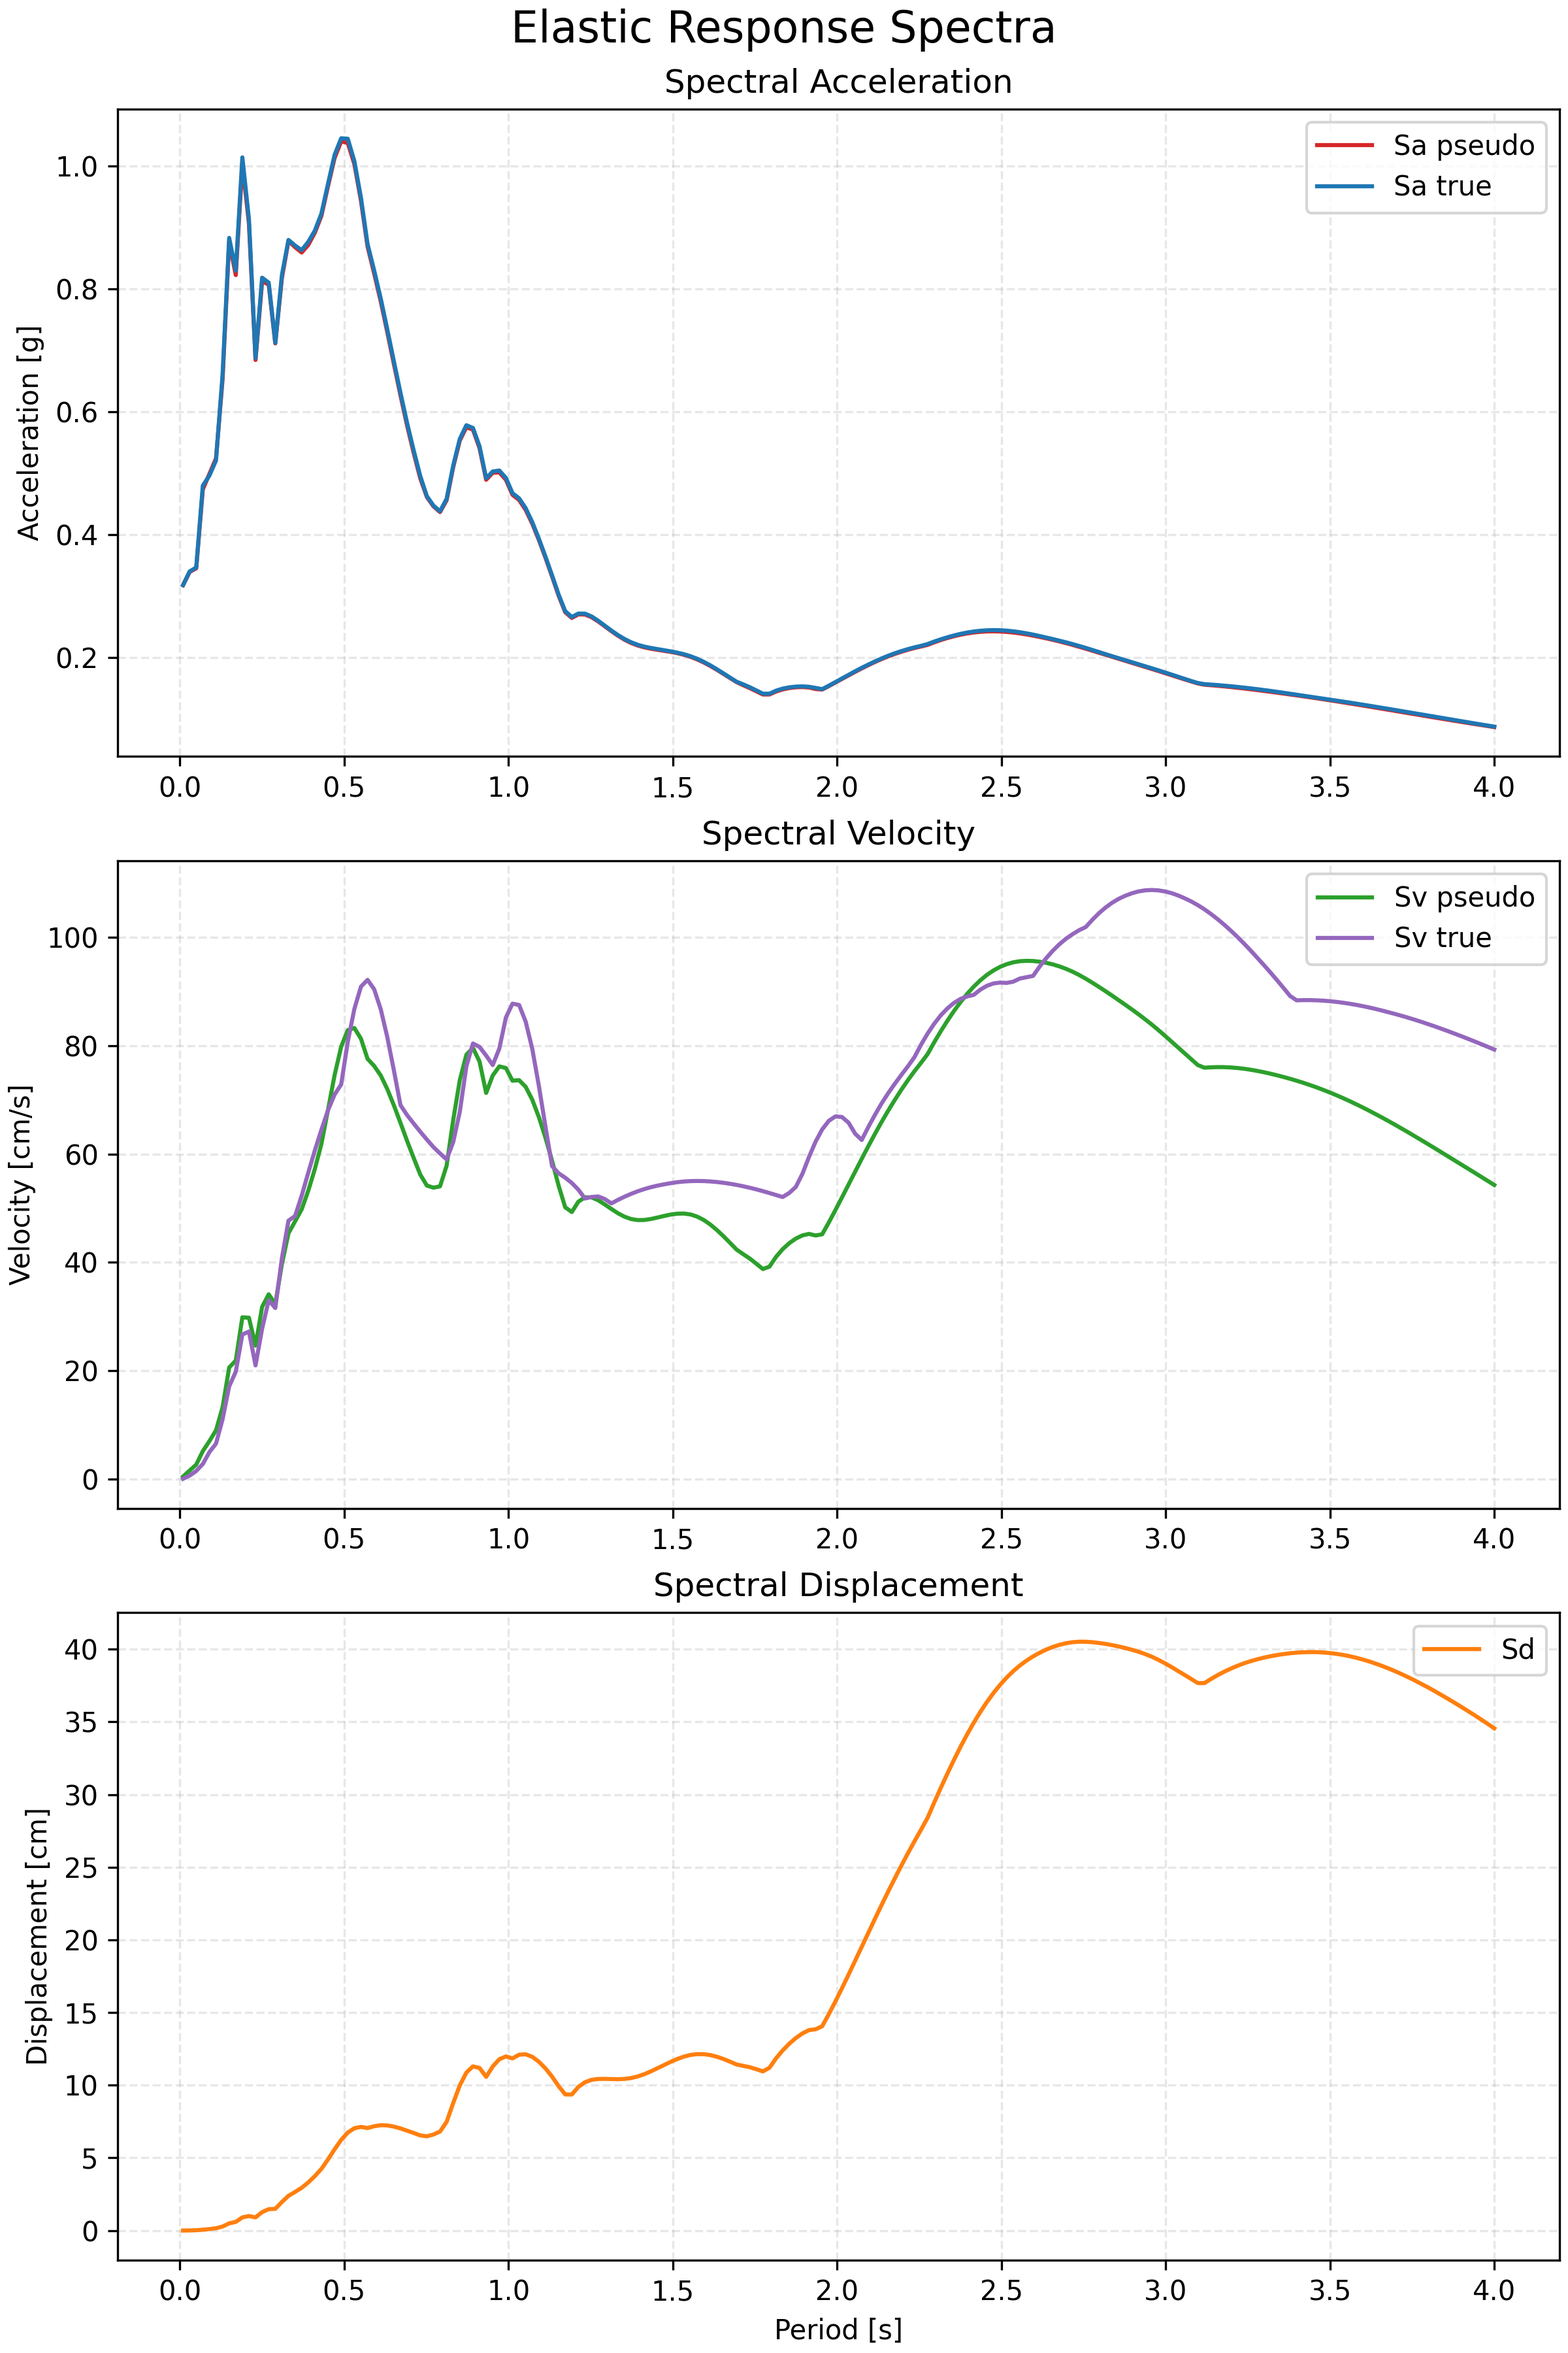
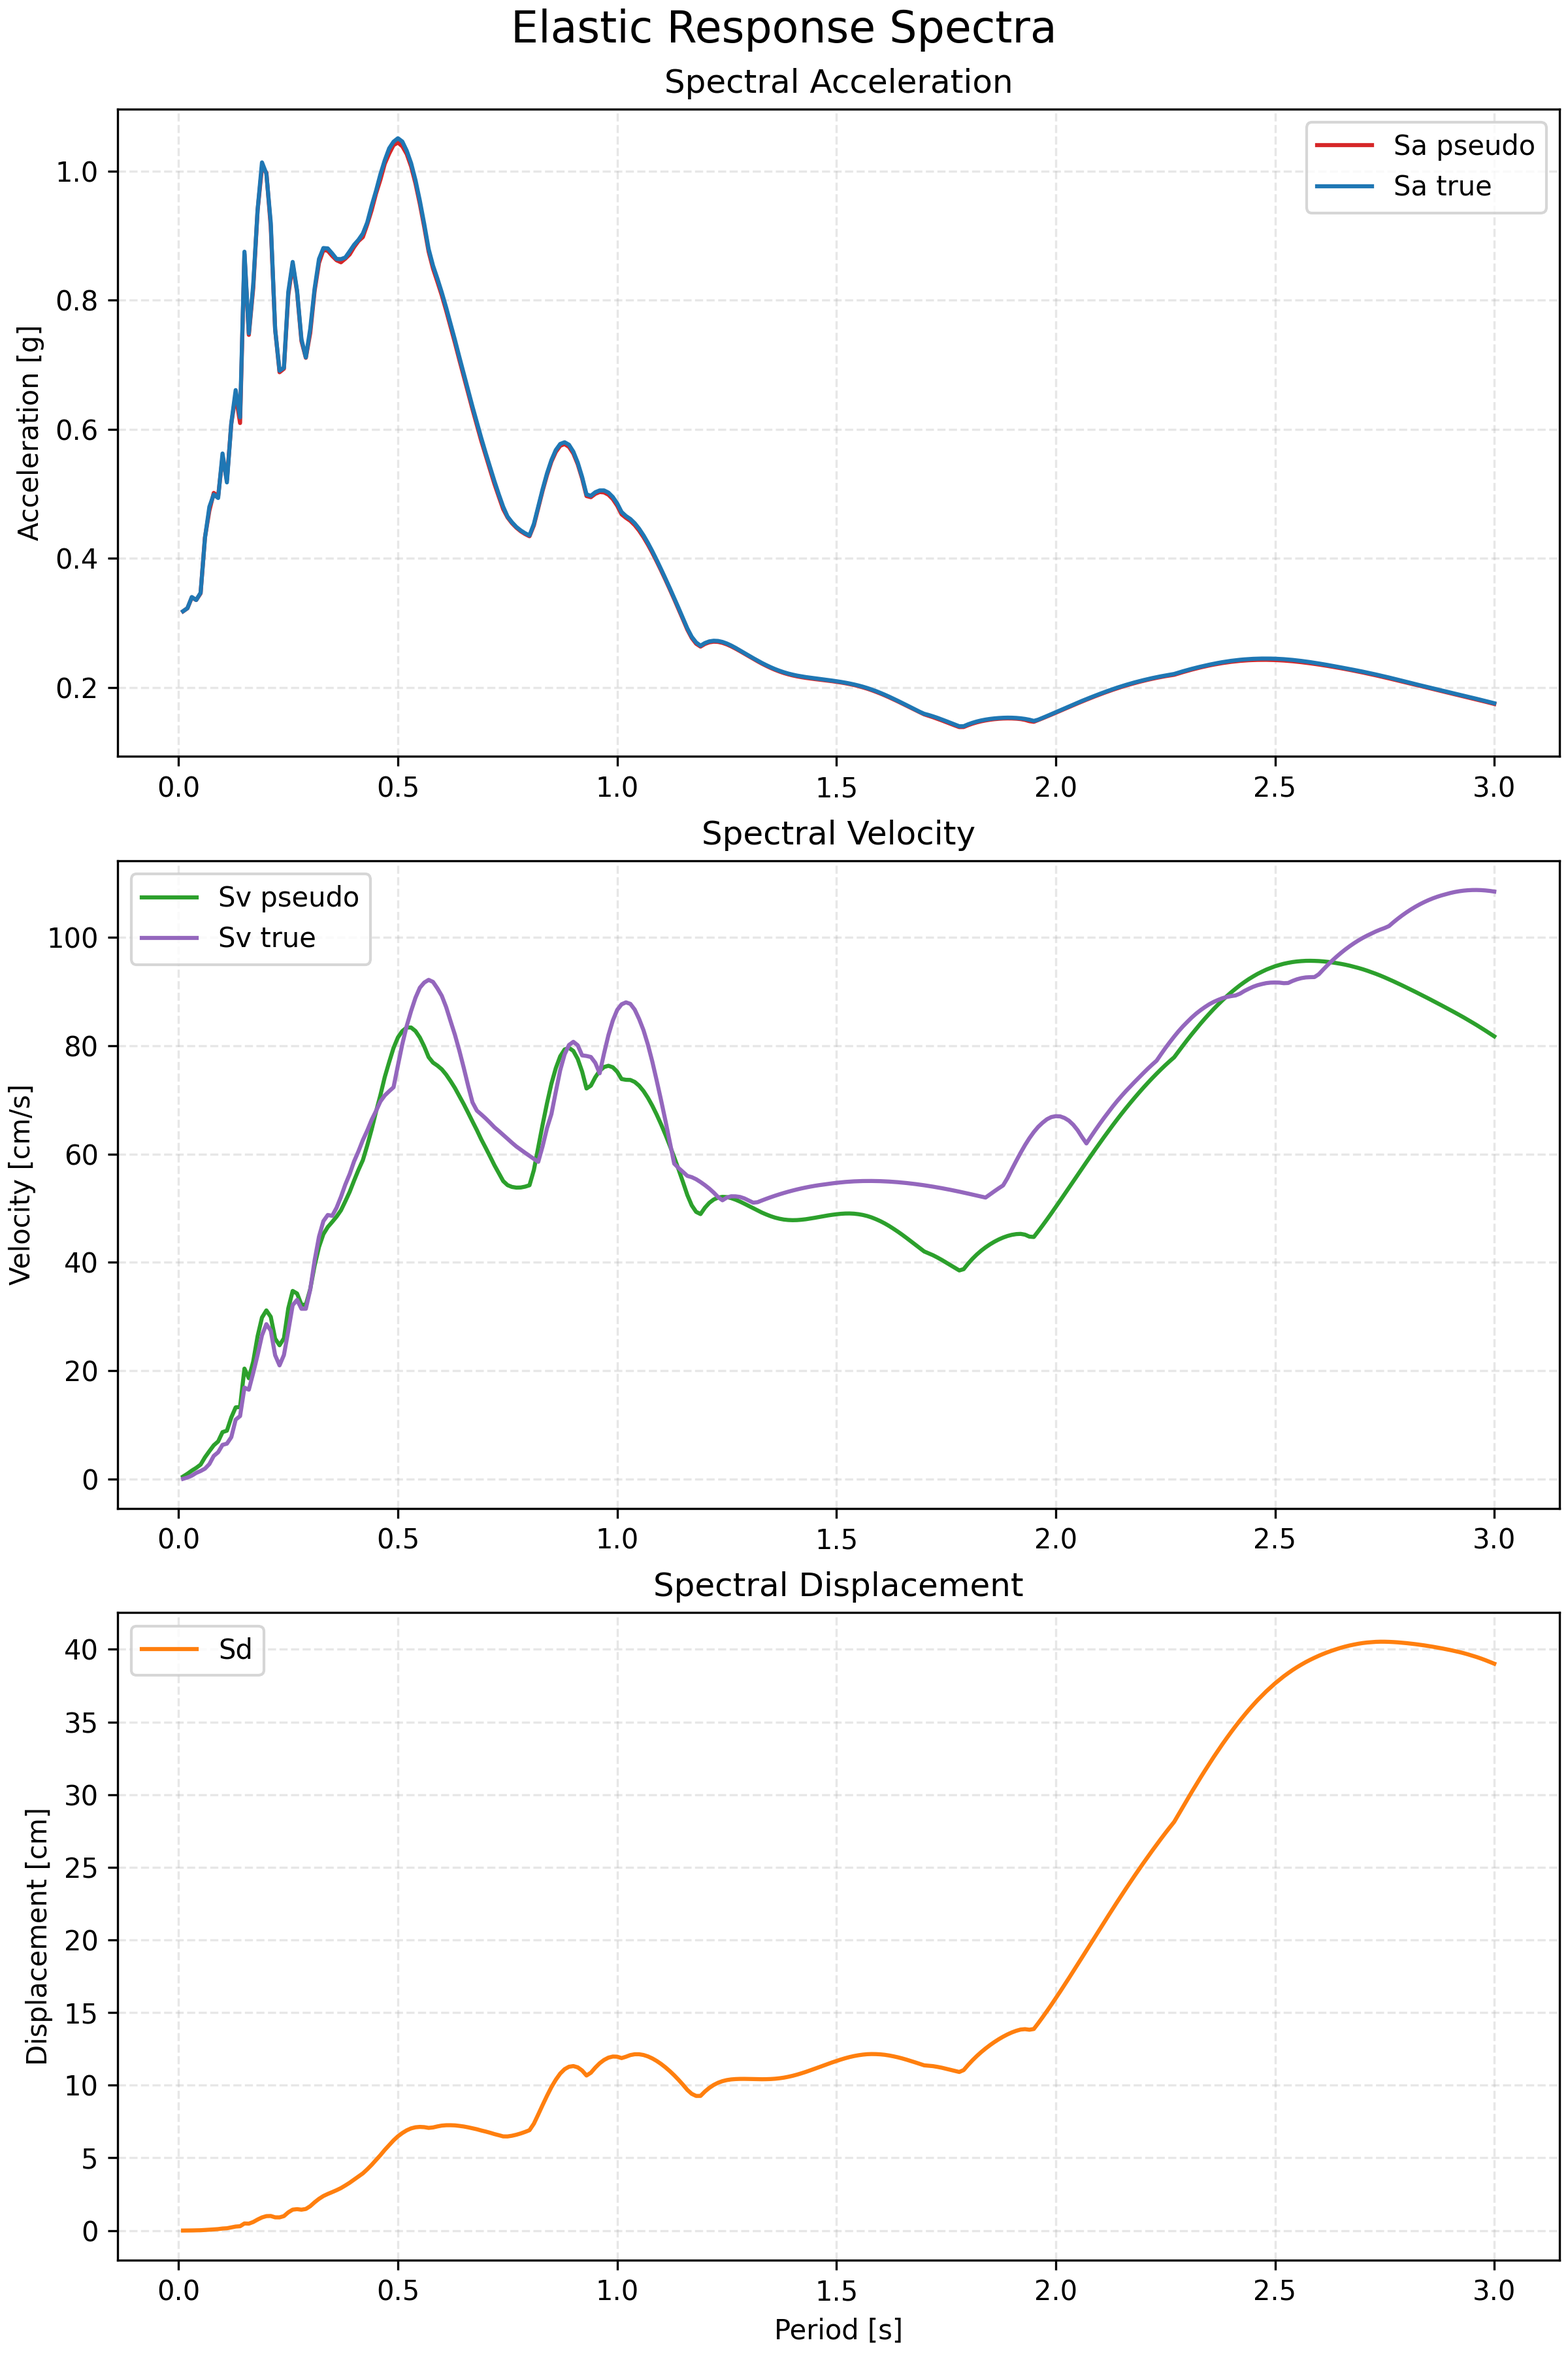
export part1 to excel

diff --git a/part1.py b/part1.py
@@ -1,6 +1,7 @@
 import openseespy.opensees as ops
 import numpy as np
 import matplotlib.pyplot as plt
+import pandas as pd
 
 ## Φόρτωση δεδομένων 
 # Υποθέτουμε 2 στήλες: [Χρόνος, Επιτάχυνση]
@@ -25,7 +26,7 @@ dt = t[1] - t[0]
 dt = round(dt, 5)
 #print(f"Χρονικό βήμα (dt) του σεισμού: {dt} sec")
 
-periods = np.arange(0.00001, 3.00001, 0.05) # Εύρος περιόδων
+periods = np.arange(0.00001, 3.00001, 0.01) # Εύρος περιόδων το 0,05 ειναι το βημα των περιόδων, 0.00001 για να αποφύγουμε το μηδέν που θα μας δώσει άπειρη συχνότητα και δυσκαμψία
 max_accelerations = [] 
 
 
@@ -101,3 +102,16 @@ print(f"Το PGA του σεισμού είναι: {pga:.4f} g") #υο μαχ τ
 
 PGA = max_accelerations[0] / 9.81
 print(f"Το PGA του σεισμού είναι: {PGA:.4f} g") #apo fasma gia T=O
+
+
+# Export max_accelerations to Excel (using pandas)
+
+# 1. Βάζουμε τα δεδομένα σε ένα "πλαίσιο" (DataFrame)
+df = pd.DataFrame({
+    'Περίοδος T (sec)': periods,
+    'Επιτάχυνση (g)': np.array(max_accelerations) / 9.81,
+    'Επιτάχυνση (m/s²)': max_accelerations
+})
+
+# 2. Εξάγουμε το DataFrame σε αρχείο Excel
+df.to_excel('my_response_spectrum.xlsx', index=False , float_format="%.5f") #Τα δεδομένα αποθηκεύτηκαν στο my_response_spectrum.xlsx!

diff --git a/response_spectrum_classic.py b/response_spectrum_classic.py
@@ -102,7 +102,7 @@ def compute_response_spectrum(
         Array of oscillator periods. Defaults to 200 values from 0.01 to 4 s.
     """
     if periods is None:
-        periods = np.linspace(0.01, 4.0, 200)
+        periods = np.linspace(0.01, 3.0, 300)
 
     ag_ms2 = ag_g * G
 
